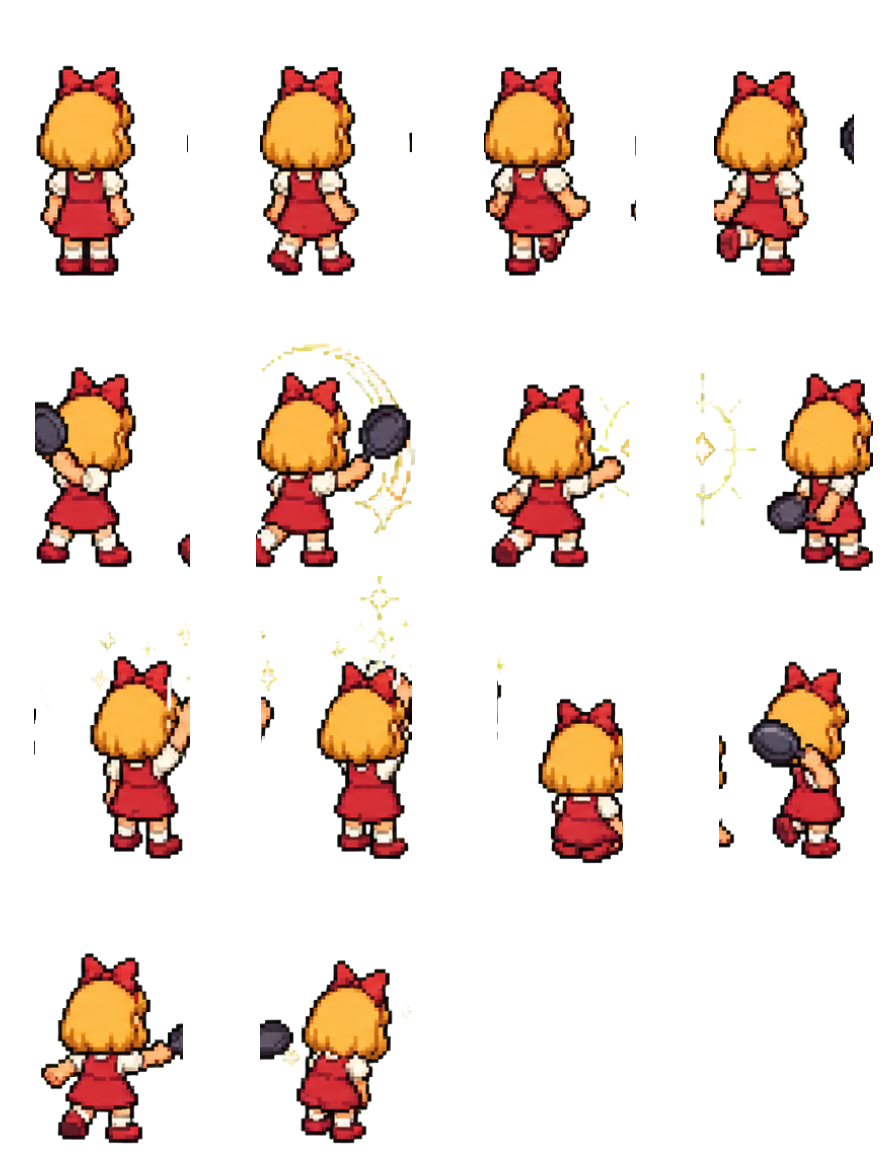
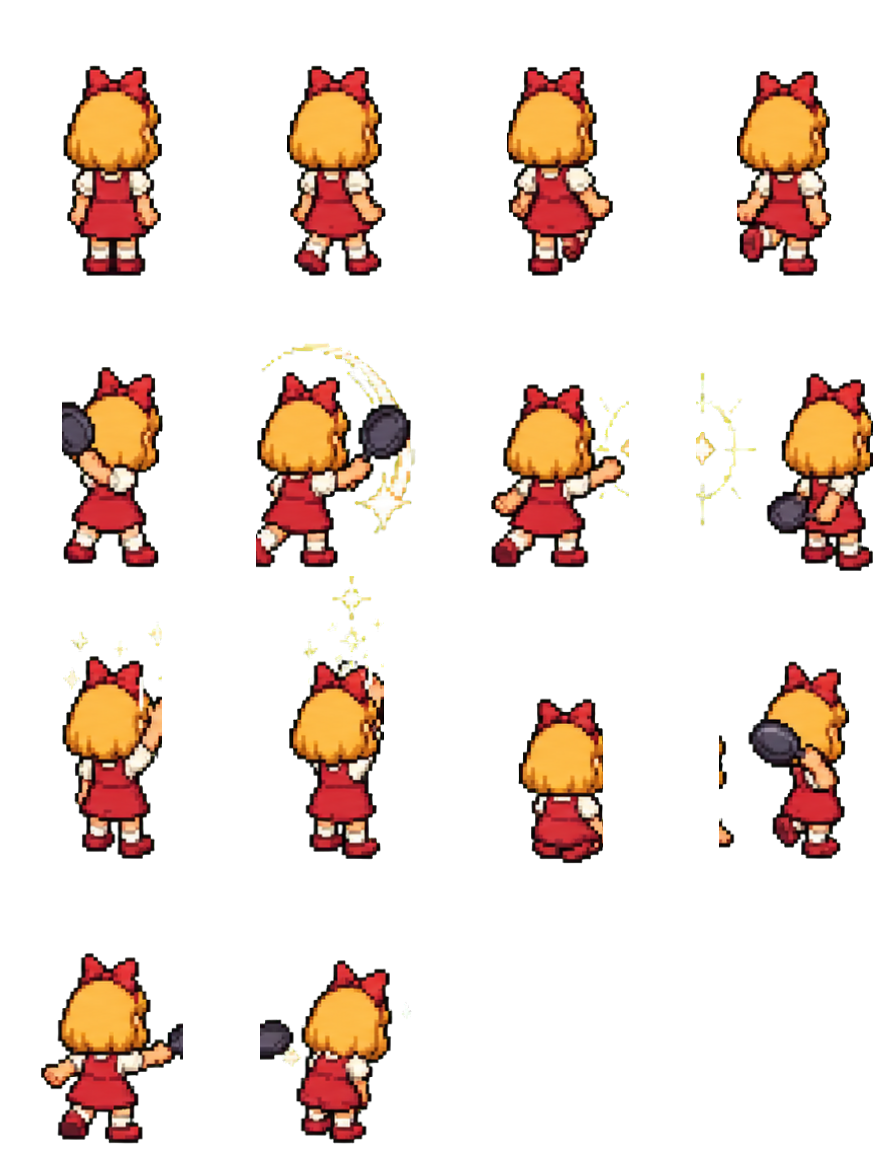
fix(resheet): drop neighbour slivers from tight battler cells
Wide FX (a swung pan, a cast arc) crossed the cuts and left thin fragments of
the adjacent figure in a cell. Per frame, build occupied column runs, bridge a
figure's own internal gaps, and keep only runs that are a real share (>=20%) of
the dominant mass — so thin edge slivers from the next figure are dropped while
the figure and its substantial FX stay. Re-sheet all 5 heroes.

diff --git a/tools/resheet.ts b/tools/resheet.ts
@@ -255,15 +255,35 @@ function main(): void {
     method = 'snap-to-gap';
   }
 
-  // per-frame horizontal content bbox + the global scale (one consistent size)
+  // per-frame horizontal content bbox + the global scale (one consistent size).
+  // A frame may catch a thin sliver of a neighbour when wide FX (a swung pan, a
+  // cast arc) crosses the cut. So within each band we build occupied runs,
+  // bridge a figure's own internal gaps (legs, arm→prop), then keep only the
+  // runs whose content is a real share of the dominant mass — dropping thin
+  // edge slivers that belong to the next figure.
   const fx: Array<[number, number]> = [];
+  const bridge = Math.max(2, Math.round(pitch * 0.12)); // figure-internal gap tolerance
   for (let i = 0; i < frames; i++) {
     const a = bounds[i];
     const b = bounds[i + 1] - 1;
-    let mn = -1;
-    let mx = -1;
-    for (let x = a; x <= b; x++) if (colHas[x] > 0) { if (mn < 0) mn = x; mx = x; }
-    fx.push(mn < 0 ? [a, b] : [mn, mx]);
+    const runs: Array<{ s: number; e: number; sum: number }> = [];
+    let s = -1;
+    for (let x = a; x <= b; x++) {
+      if (colHas[x] > 0) { if (s < 0) s = x; }
+      else if (s >= 0) { runs.push({ s, e: x - 1, sum: 0 }); s = -1; }
+    }
+    if (s >= 0) runs.push({ s, e: b, sum: 0 });
+    if (runs.length === 0) { fx.push([a, b]); continue; }
+    const merged: Array<{ s: number; e: number; sum: number }> = [runs[0]];
+    for (let r = 1; r < runs.length; r++) {
+      const last = merged[merged.length - 1];
+      if (runs[r].s - last.e - 1 <= bridge) last.e = runs[r].e;
+      else merged.push(runs[r]);
+    }
+    for (const m of merged) { let t = 0; for (let x = m.s; x <= m.e; x++) t += colHas[x]; m.sum = t; }
+    const dominant = Math.max(...merged.map((m) => m.sum));
+    const keep = merged.filter((m) => m.sum >= dominant * 0.2);
+    fx.push([Math.min(...keep.map((m) => m.s)), Math.max(...keep.map((m) => m.e))]);
   }
   const maxFW = Math.max(...fx.map(([a, b]) => b - a + 1));
   // Default: fill cell HEIGHT (one consistent character size; wide poses may
